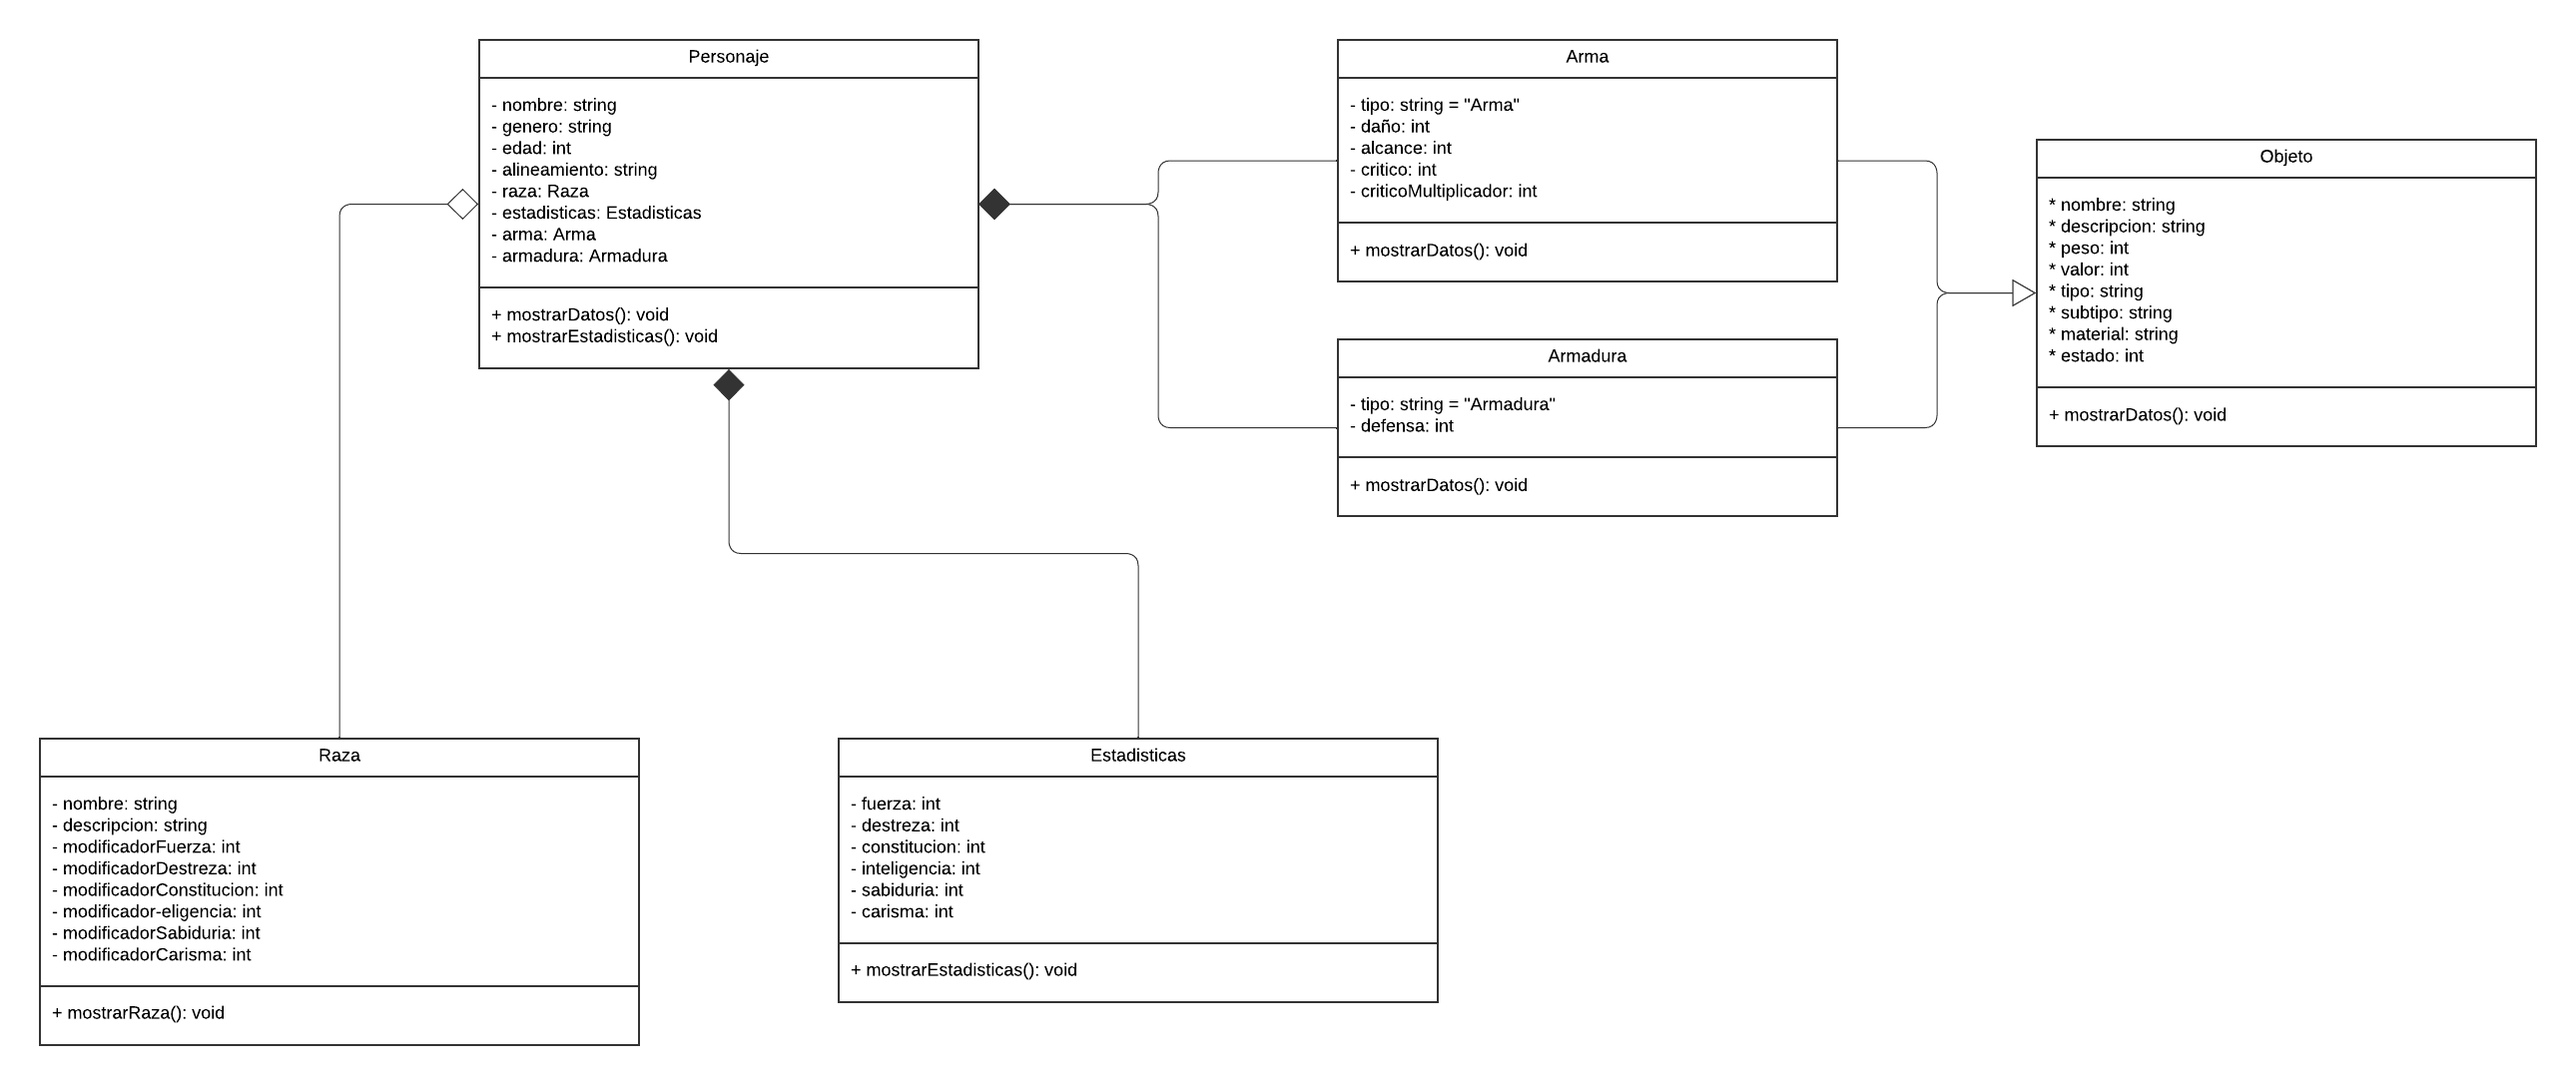
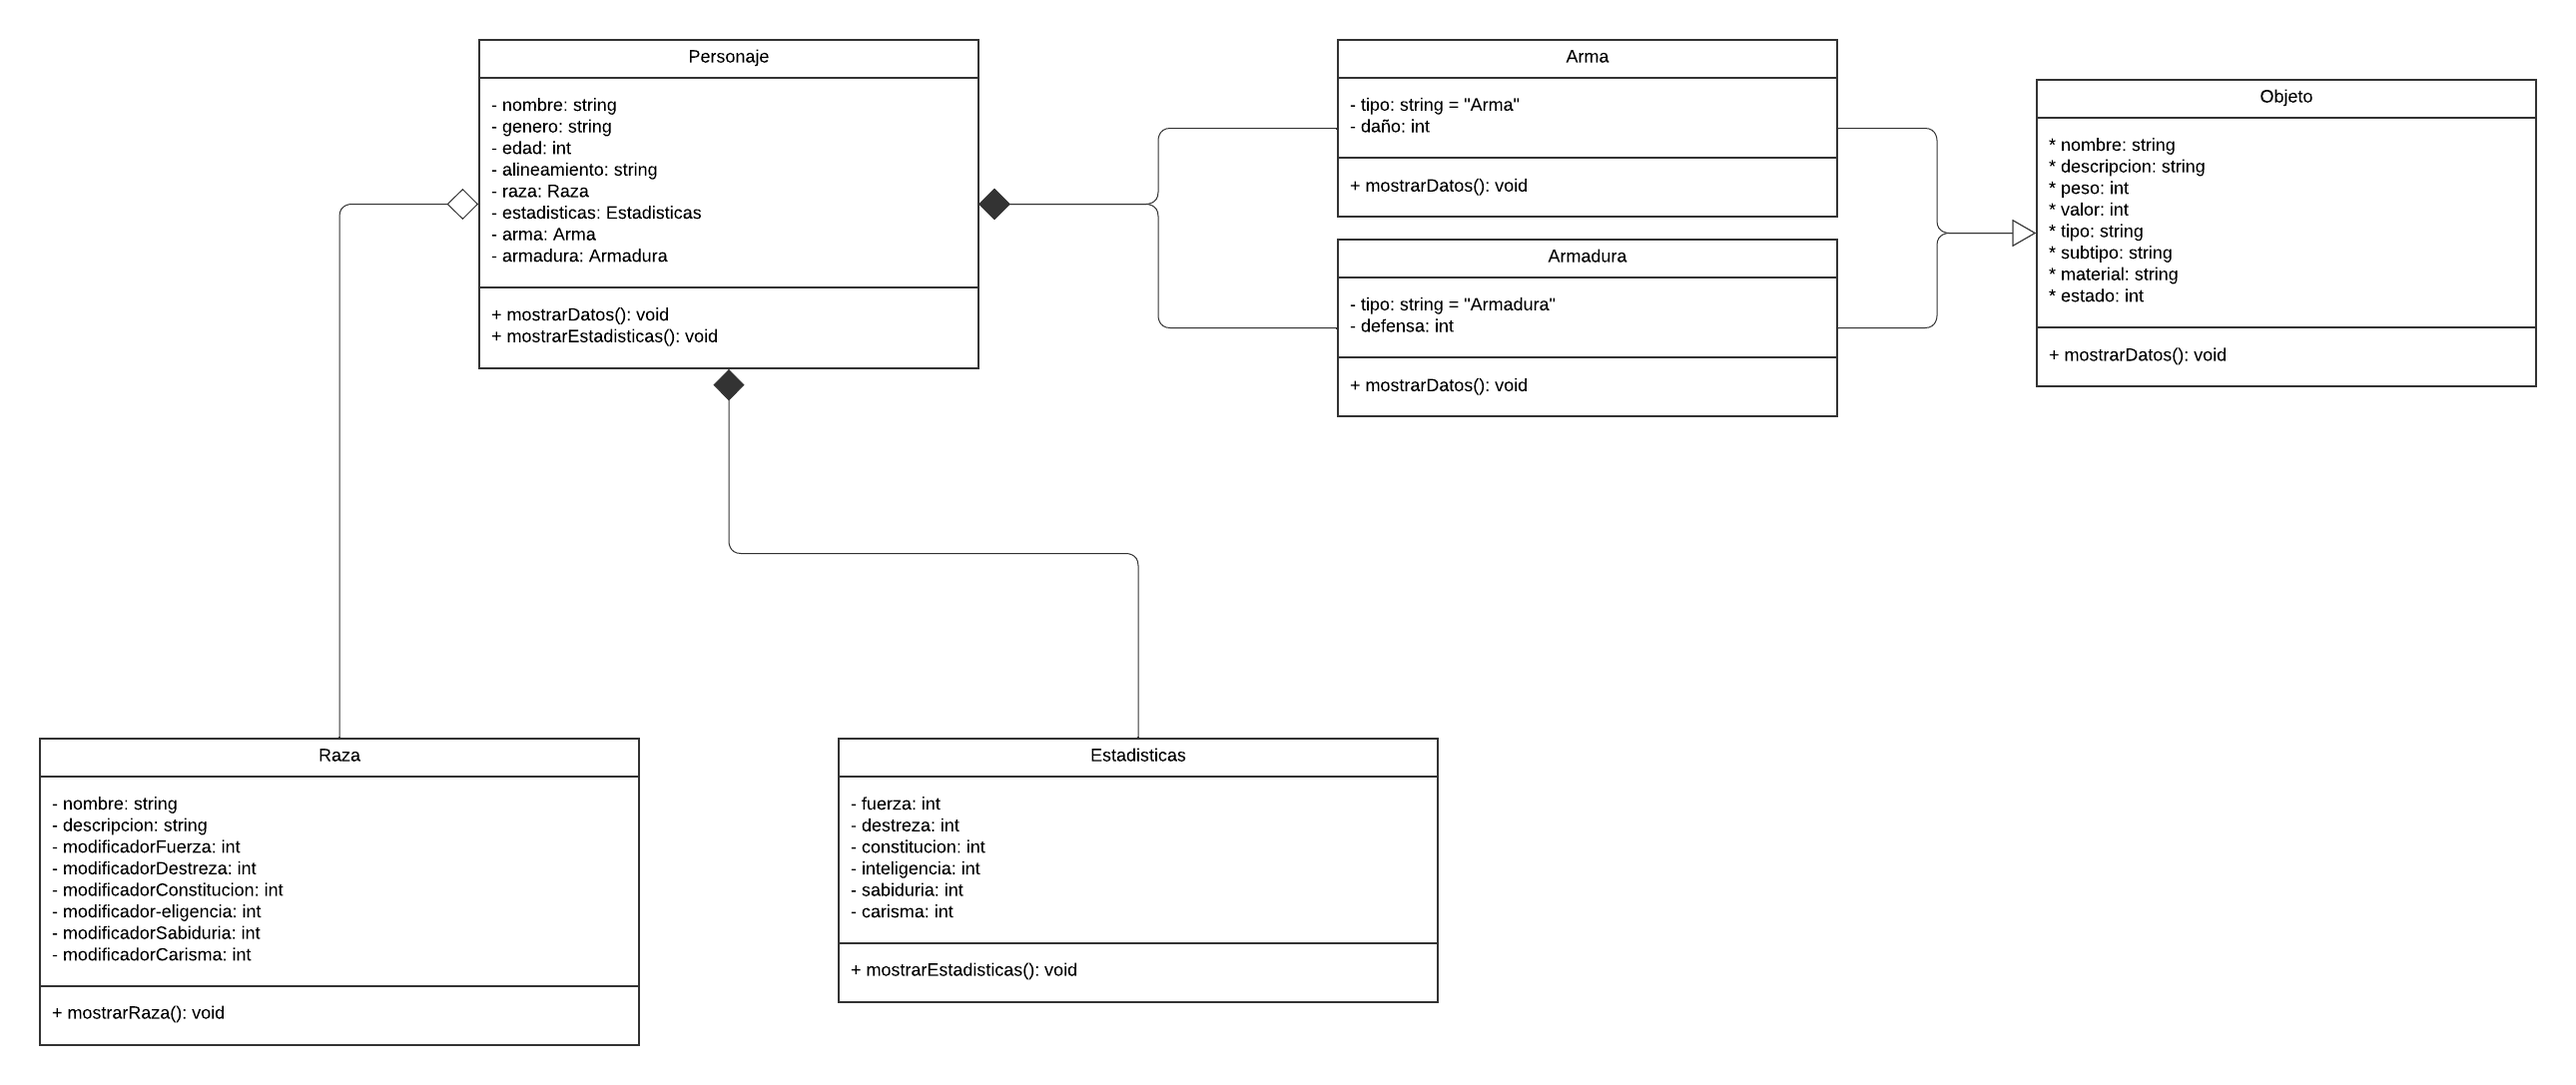
Update Arma.h

Changed region(s): [[0.5271, 0.1214, 0.7132, 0.4554], [0.7752, 0.0607, 0.8992, 0.3339], [0.8062, 0.3643, 0.8682, 0.3947]]

diff --git a/headers/Arma.h b/headers/Arma.h
@@ -12,28 +12,20 @@ class Arma : public Objeto
 private:
     std::string tipo = "Arma";
     int daño;
-    int alcance;
-    int critico;
-    int criticoMultiplicador;
+}
 
 public:
     // Constructores
     Arma();
-    Arma(std::string nombre, std::string descripcion, int peso, int valor, std::string subtipo, std::string material, int estado, int daño, int alcance, int critico, int criticoMultiplicador);
+    Arma(std::string nombre, std::string descripcion, int peso, int valor, std::string subtipo, std::string material, int estado, int daño);
 
     // Getters
     std::string getTipo();
     int getDaño();
-    int getAlcance();
-    int getCritico();
-    int getCriticoMultiplicador();
 
     // Setters
     void setTipo(std::string tipo);
     void setDaño(int daño);
-    void setAlcance(int alcance);
-    void setCritico(int critico);
-    void setCriticoMultiplicador(int criticoMultiplicador);
 
     // Metodos
     void mostrarDatos();
@@ -47,14 +39,10 @@ Arma::Arma()
     valor = 0;
     subtipo = "Espada";
     material = "Madera y acero";
-    estado = 100;
     daño = 10;
-    alcance = 0;
-    critico = 0;
-    criticoMultiplicador = 0;
 }
 
-Arma::Arma(std::string nombre, std::string descripcion, int peso, int valor, std::string subtipo, std::string material, int estado, int daño, int alcance, int critico, int criticoMultiplicador)
+Arma::Arma(std::string nombre, std::string descripcion, int peso, int valor, std::string subtipo, std::string material, int estado, int daño)
 {
     this->nombre = nombre;
     this->descripcion = descripcion;
@@ -64,9 +52,6 @@ Arma::Arma(std::string nombre, std::string descripcion, int peso, int valor, std
     this->material = material;
     this->estado = estado;
     this->daño = daño;
-    this->alcance = alcance;
-    this->critico = critico;
-    this->criticoMultiplicador = criticoMultiplicador;
 }
 
 std::string Arma::getTipo()
@@ -79,21 +64,6 @@ int Arma::getDaño()
     return daño;
 }
 
-int Arma::getAlcance()
-{
-    return alcance;
-}
-
-int Arma::getCritico()
-{
-    return critico;
-}
-
-int Arma::getCriticoMultiplicador()
-{
-    return criticoMultiplicador;
-}
-
 void Arma::setTipo(std::string tipo)
 {
     this->tipo = tipo;
@@ -102,21 +72,6 @@ void Arma::setTipo(std::string tipo)
 void Arma::setDaño(int daño)
 {
     this->daño = daño;
-}
-
-void Arma::setAlcance(int alcance)
-{
-    this->alcance = alcance;
-}
-
-void Arma::setCritico(int critico)
-{
-    this->critico = critico;
-}
-
-void Arma::setCriticoMultiplicador(int criticoMultiplicador)
-{
-    this->criticoMultiplicador = criticoMultiplicador;
 }
 
 void Arma::mostrarDatos()
@@ -130,9 +85,6 @@ void Arma::mostrarDatos()
     std::cout << "Material: " << material << std::endl;
     std::cout << "Estado: " << estado << std::endl;
     std::cout << "Daño: " << daño << std::endl;
-    std::cout << "Alcance: " << alcance << std::endl;
-    std::cout << "Critico: " << critico << std::endl;
-    std::cout << "Critico Multiplicador: " << criticoMultiplicador << std::endl;
 }
 
 #endif
